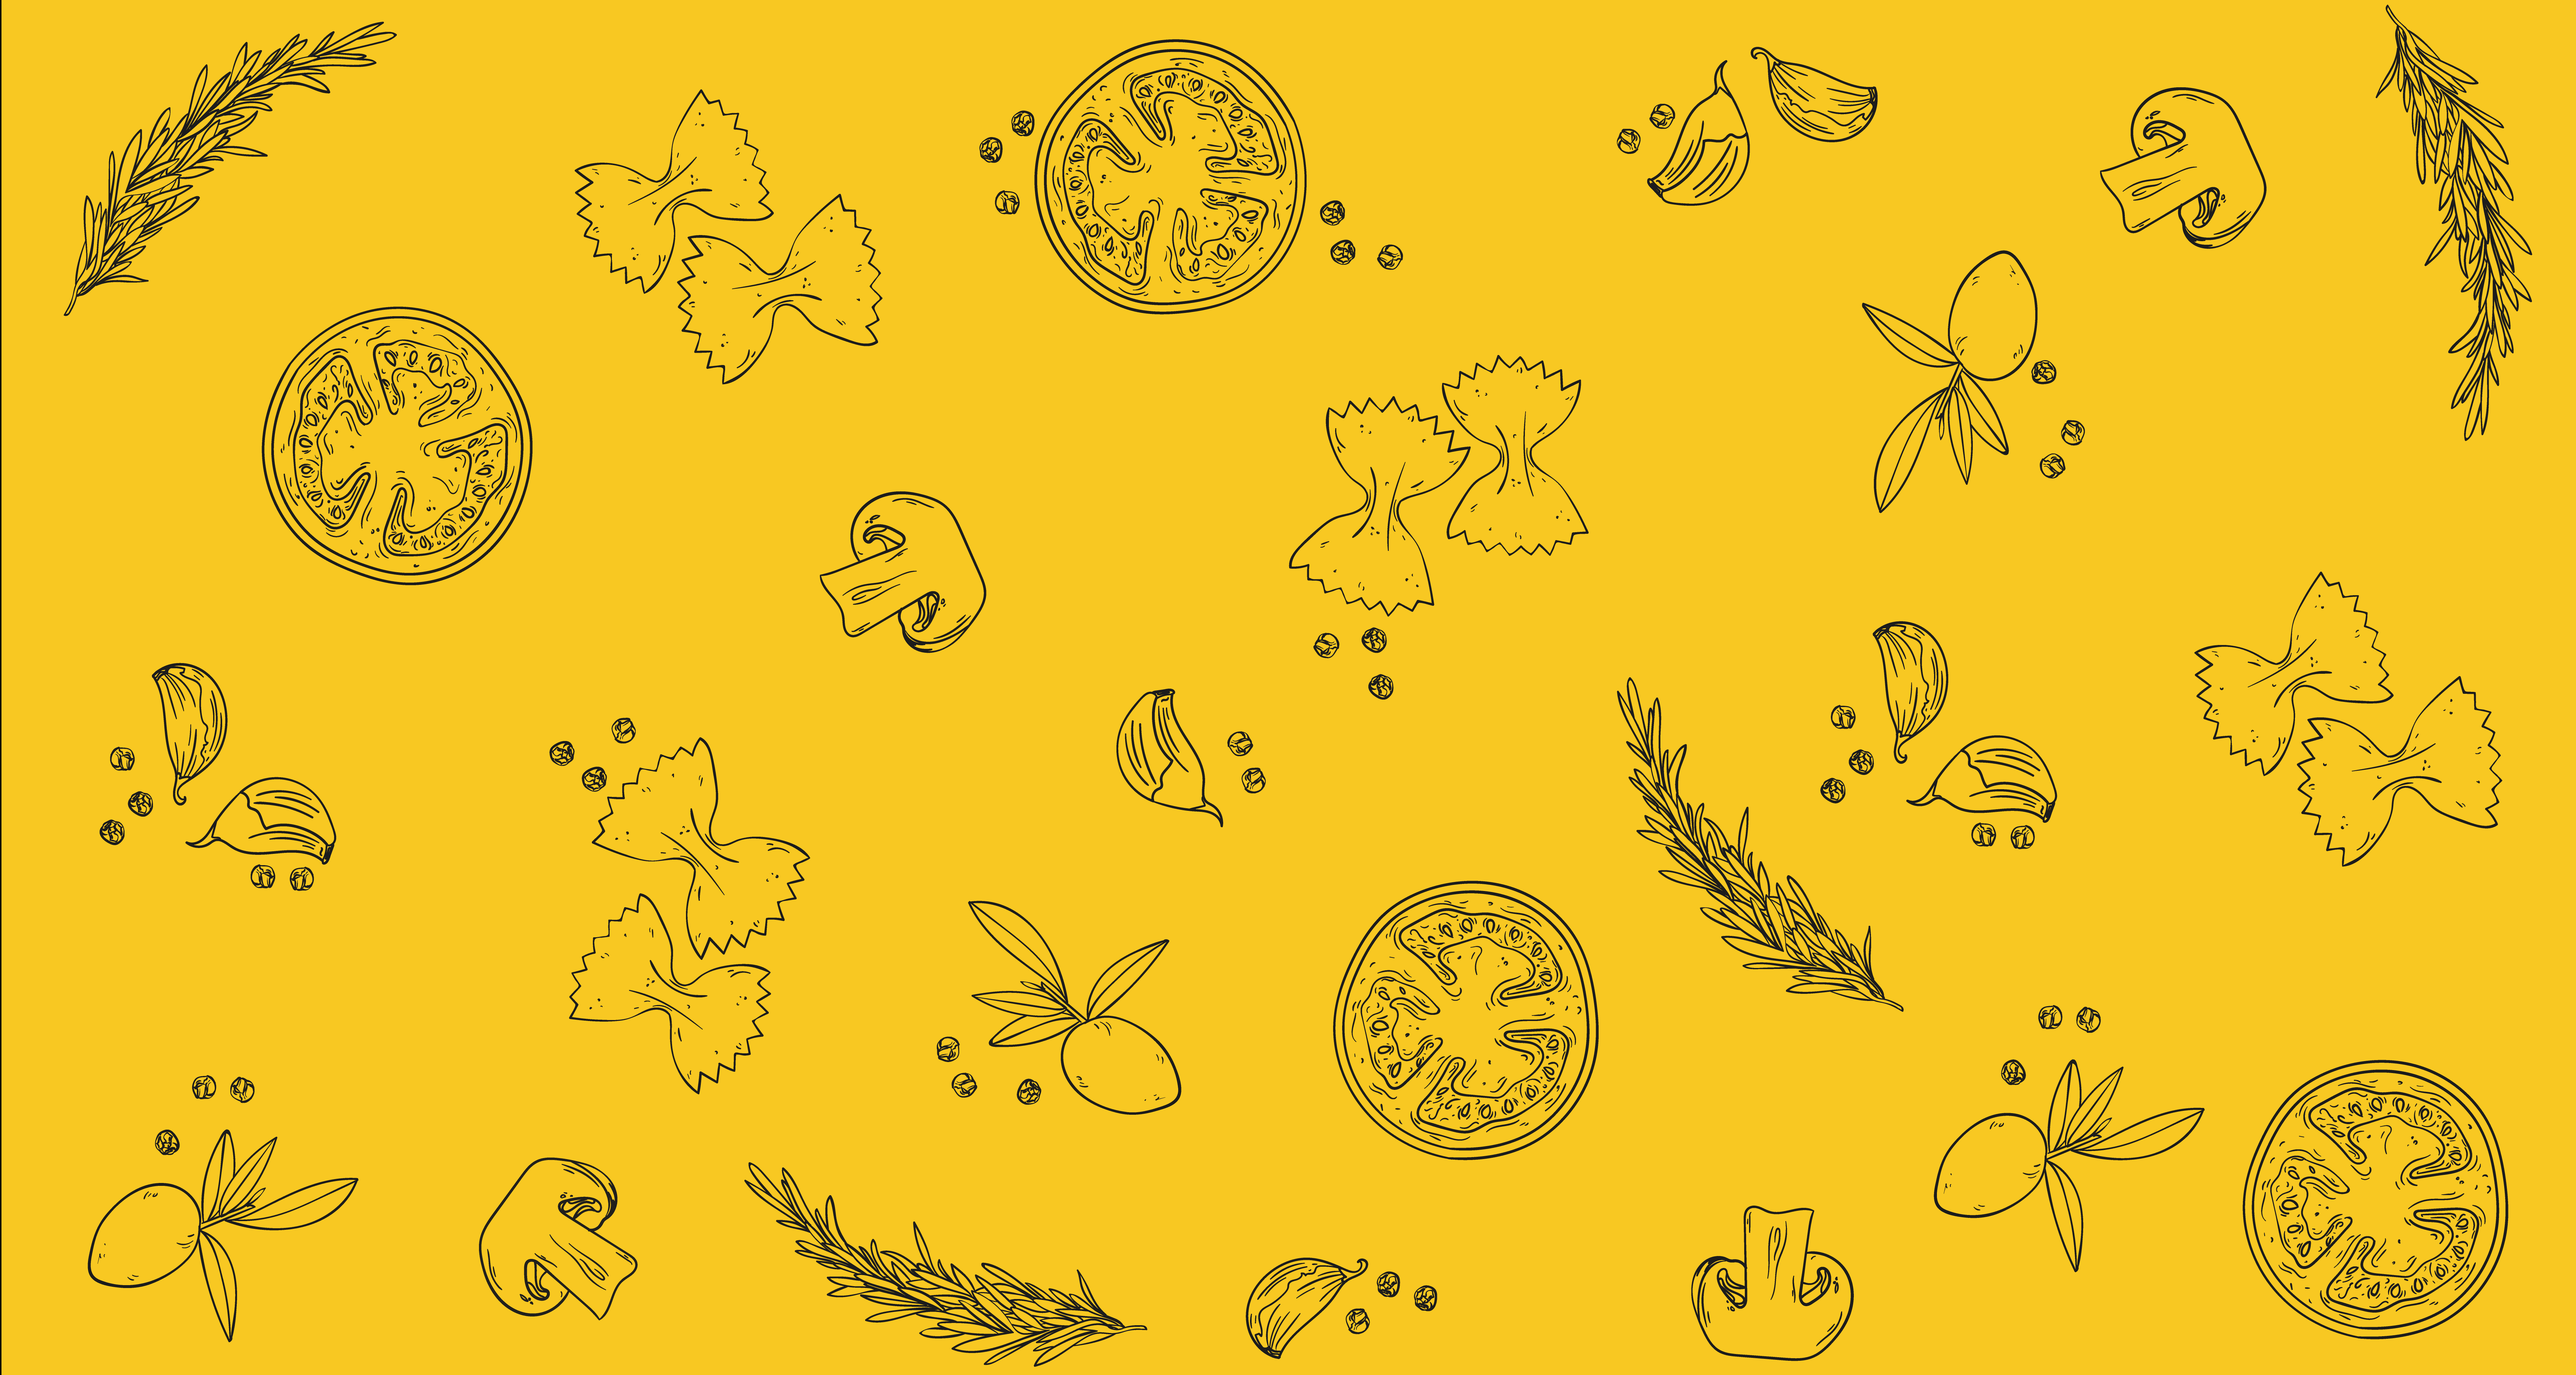
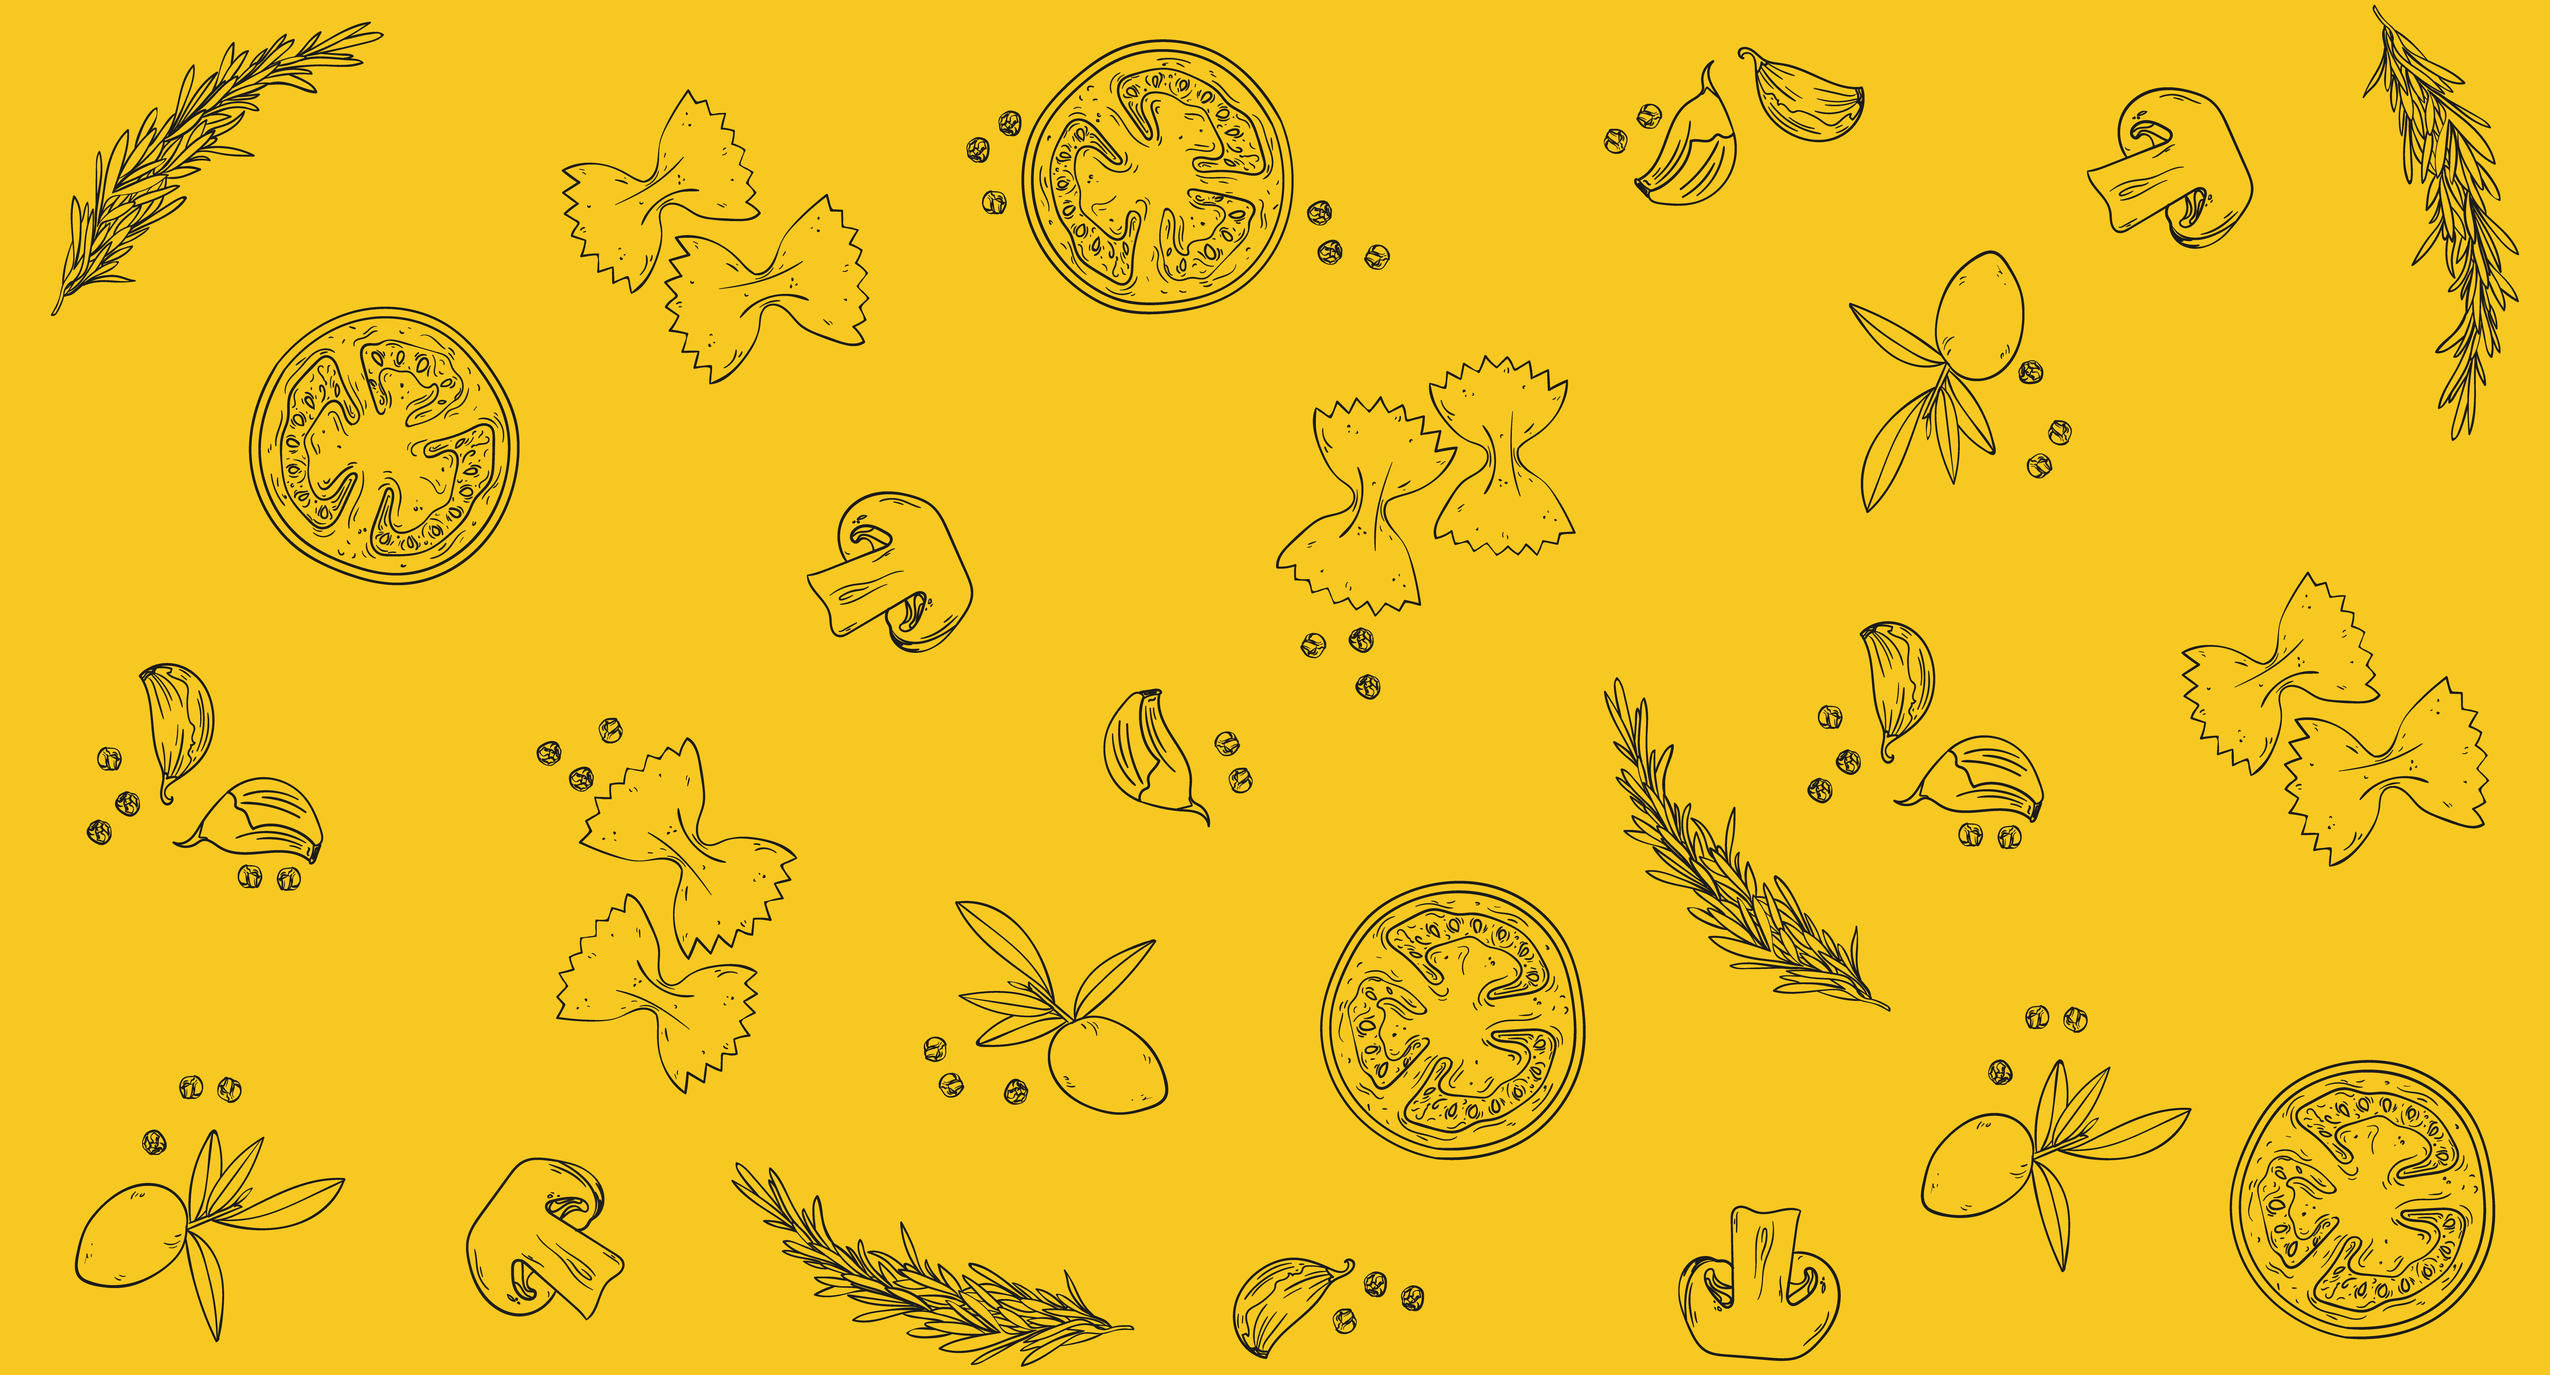
modificación estilos de los botones de login/register del inicio

diff --git a/src/app/components/inicio/register/register.component.scss b/src/app/components/inicio/register/register.component.scss
@@ -38,48 +38,64 @@ hr {
   border-radius: 0;
   border: 0;
   outline: 0;
-  border-bottom: 1px solid rgba(248, 200, 34, 1);
+  border-bottom: 1px solid rgb(255, 255, 255);
+  font-family: 'Ubuntu', sans-serif;
 }
 
 .form-control:focus {
-  box-shadow: 0 0 0 2.5px rgba(248, 202, 34, 0);
+  box-shadow: none;
 }
 
 // Estilos del botón
+.btn, .btn::after {
+  -webkit-transition: all 0.3s;
+	-moz-transition: all 0.3s;
+  -o-transition: all 0.3s;
+	transition: all 0.3s;
+}
+
 .btn {
   padding: 14px 24px;
   border: 0 none;
   font-weight: 700;
   letter-spacing: 1px;
   text-transform: uppercase;
+  display: block;
+  position: relative;
+  background: none;
+  border: 2px solid rgba(248, 200, 34, 1);
+  font-family: 'Ubuntu', sans-serif;
+  margin-top: 7%;
 }
 
-.btn:focus, .btn:active:focus, .btn.active:focus {
-  outline: 0 none;
+.btn::before,
+.btn::after {
+  background: rgba(248, 200, 34, 1);
+  content: '';
+  position: absolute;
+  z-index: -1;
+}
+
+.btn:hover {
+  color: #000;
+  border: 0;
 }
 
 .btn-primary {
-  background: rgba(248, 200, 34, 1);
-  color: #ffffff;
-  border-radius: 0;
-  margin-top: 6%;
+  overflow: hidden;
 }
 
-.btn-primary:hover, .btn-primary:focus, .btn-primary:active, .btn-primary.active, .open > .dropdown-toggle.btn-primary {
-  background: rgb(36, 34, 26);
+.btn-primary::after {
+  height: 100%;
+  left: -10%;
+  top: 0;
+  transform: skew(50deg);
+  transition-duration: 0.6s;
+  transform-origin: bottom left;
+  width: 0;
 }
 
-.btn-primary:active, .btn-primary.active {
-  background: rgba(248, 200, 34, 1);
-  box-shadow: none;
-}
-
-.form-row {
-  display: flex;
-  justify-content: space-between;
-}
-
-.junto {
-  width: 85%;width: 85%;
-  margin: auto;
+.btn-primary:hover:after {
+  height: 100%;
+  width: 135%;
 }

diff --git a/src/app/components/inicio/login/login.component.scss b/src/app/components/inicio/login/login.component.scss
@@ -38,38 +38,65 @@ hr {
   border-radius: 0;
   border: 0;
   outline: 0;
-  border-bottom: 1px solid rgba(248, 200, 34, 1);
+  border-bottom: 1px solid rgb(255, 255, 255);
+  font-family: 'Ubuntu', sans-serif;
 }
 
 .form-control:focus {
-  box-shadow: 0 0 0 0.2rem rgba(248, 200, 34, 0);
+  box-shadow: none;
 }
 
 // Estilos del botón
+.btn, .btn::after {
+  -webkit-transition: all 0.3s;
+	-moz-transition: all 0.3s;
+  -o-transition: all 0.3s;
+	transition: all 0.3s;
+}
+
 .btn {
   padding: 14px 24px;
   border: 0 none;
   font-weight: 700;
   letter-spacing: 1px;
   text-transform: uppercase;
+  display: block;
+  position: relative;
+  background: none;
+  border: 2px solid rgba(248, 200, 34, 1);
+  font-family: 'Ubuntu', sans-serif;
+  margin-top: 10%;
 }
 
-.btn:focus, .btn:active:focus, .btn.active:focus {
-  outline: 0 none;
+.btn::before,
+.btn::after {
+  background: rgba(248, 200, 34, 1);
+  content: '';
+  position: absolute;
+  z-index: -1;
+}
+
+.btn:hover {
+  color: #000;
+  border: 0;
 }
 
 .btn-primary {
-  background: rgba(248, 200, 34, 1);
-  color: #ffffff;
-  border-radius: 0;
-  margin-top: 13%;
+  overflow: hidden;
 }
 
-.btn-primary:hover, .btn-primary:focus, .btn-primary:active, .btn-primary.active, .open > .dropdown-toggle.btn-primary {
-  background: rgb(36, 34, 26);
+.btn-primary::after {
+  height: 100%;
+  left: -10%;
+  top: 0;
+  transform: skew(50deg);
+  transition-duration: 0.6s;
+  transform-origin: bottom left;
+  width: 0;
 }
 
-.btn-primary:active, .btn-primary.active {
-  background: rgba(248, 200, 34, 1);
-  box-shadow: none;
+.btn-primary:hover:after {
+  height: 100%;
+  width: 135%;
 }
+

diff --git a/src/app/components/dashboard/dashboard.component.scss b/src/app/components/dashboard/dashboard.component.scss
@@ -9,7 +9,7 @@
 
 .container-completo {
   height: 100%;
-  background: #2B2923;
+  background: rgb(37, 36, 31);
   color: white;
   font-family: 'Amaranth', sans-serif;
   font-size: 3rem;
@@ -24,9 +24,7 @@
 
 .container-fill {
   height: 100%;
-  background: #2B2923;
   color: white;
-  font-family: 'Amaranth', sans-serif;
   font-size: 1.4rem;
 }
 
@@ -34,10 +32,20 @@
   width: 100%;
   font-size: 50%;
   text-align: center;
-  border: 2px solid #F8C822;
-  border-top: 4px solid #F8C822;
-  border-bottom: 4px solid #F8C822;
-  font-family: 'Amaranth', sans-serif;
+  border-right: 2px solid #F8C822;
+  border-left: 2px solid #F8C822;
+  font-family: 'Ubuntu', sans-serif;
+  height: 30px;
+}
+
+.filtros div:nth-child(1) {
+  border: 0;
+  border-right: 2px solid #F8C822;
+}
+
+.filtros div:nth-child(5) {
+  border: 0;
+  border-left: 2px solid #F8C822;
 }
 
 // Estilos del botón
@@ -52,13 +60,13 @@
 }
 
 .btn-primary {
-  background: rgb(36, 34, 26);
+  background: rgb(54, 53, 46);
   color: #ffffff;
   border-radius: 0;
 }
 
 .btn-primary:hover, .btn-primary:focus, .btn-primary:active, .btn-primary.active, .open > .dropdown-toggle.btn-primary {
-  background: rgba(248, 202, 34, 0.692);
+  background: rgb(26, 24, 18);
 }
 
 .btn-primary:active, .btn-primary.active {

diff --git a/src/app/components/shared/navbar/navbar.component.html b/src/app/components/shared/navbar/navbar.component.html
@@ -11,8 +11,10 @@
       <span class="nameUser">Carlos Fontes</span><i class="fa fa-bars ml-2"></i>  <!-- TODO-->
     </button>
     <ul id="dropdown-basic" *dropdownMenu class="dropdown-menu dropdown-menu-right" role="menu" aria-labelledby="button-basic">
-      <li role="menuitem"><a class="dropdown-item" href="#">Dashboard</a></li>
+      <li role="menuitem"><a class="dropdown-item" href="#">Order</a></li>
+      <li role="menuitem"><a class="dropdown-item" href="#">Purchases</a></li>
       <li role="menuitem"><a class="dropdown-item" href="#">Change Password</a></li>
+      <li class="divider dropdown-divider"></li>
       <li role="menuitem"><a class="dropdown-item" href="#">Logout</a></li>
     </ul>
   </div>

diff --git a/src/styles.scss b/src/styles.scss
@@ -5,5 +5,5 @@ $fa-font-path : '../node_modules/font-awesome/fonts';
 @import '../node_modules/font-awesome/scss/font-awesome.scss';
 body {
   background-image: url('assets/images/background-image.png');
-  background-size: cover;
+  background-size: contain;
 }

diff --git a/src/app/components/dashboard/dashboard.component.html b/src/app/components/dashboard/dashboard.component.html
@@ -19,3 +19,7 @@
     <div class="btn btn-primary">Others</div>
   </div>
 </div>
+
+<div class="container">
+
+</div>
